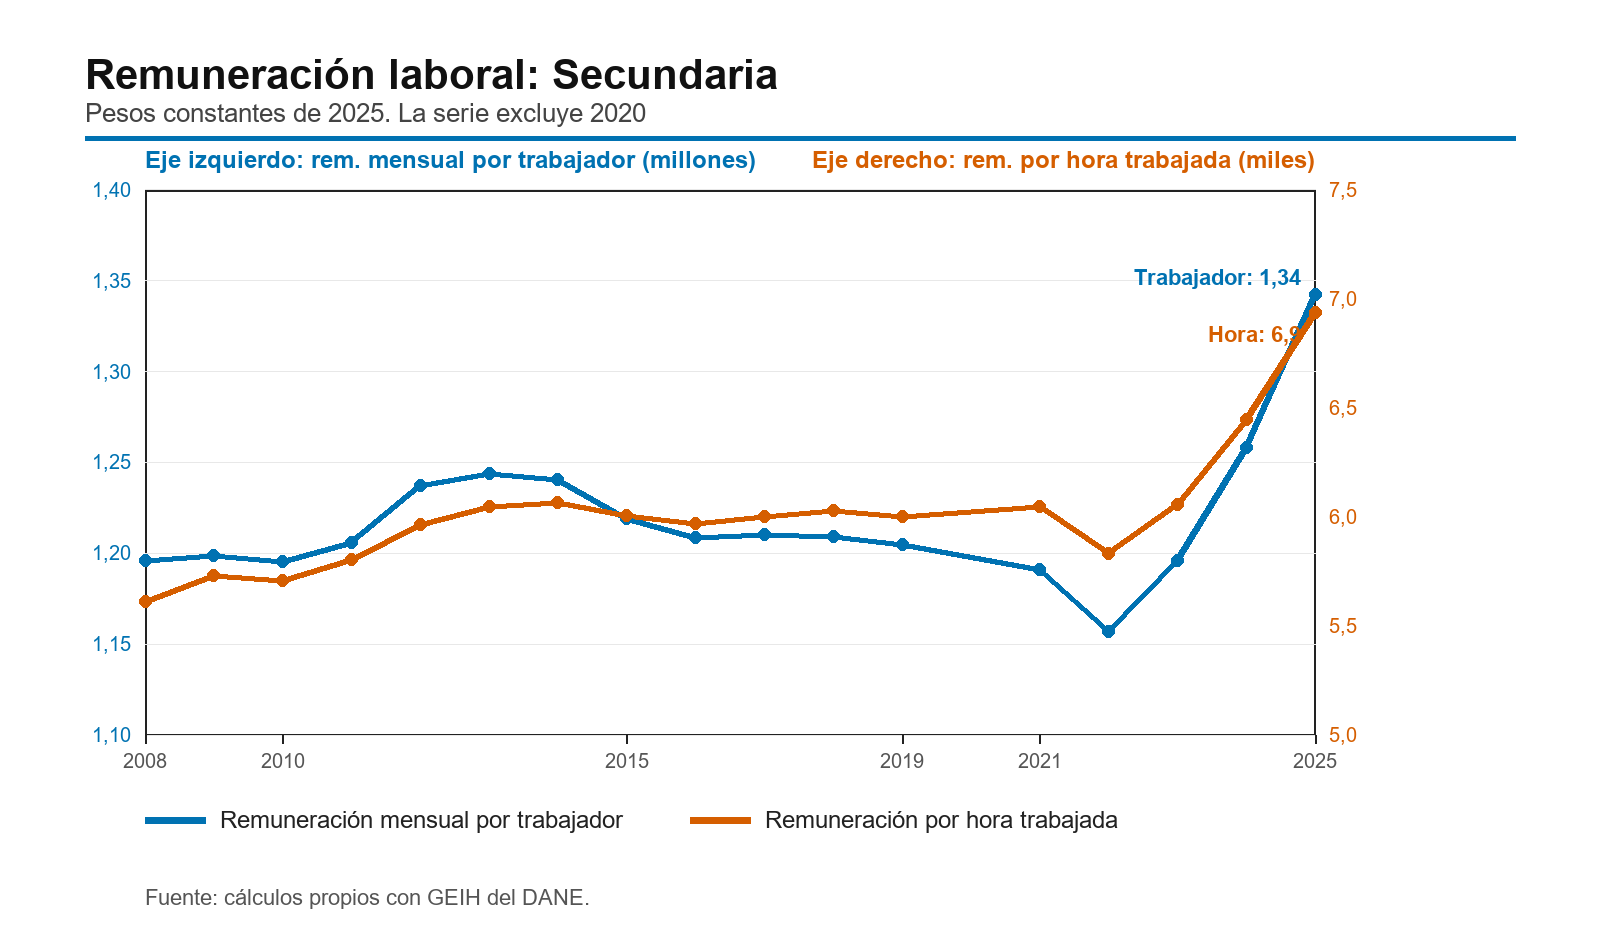
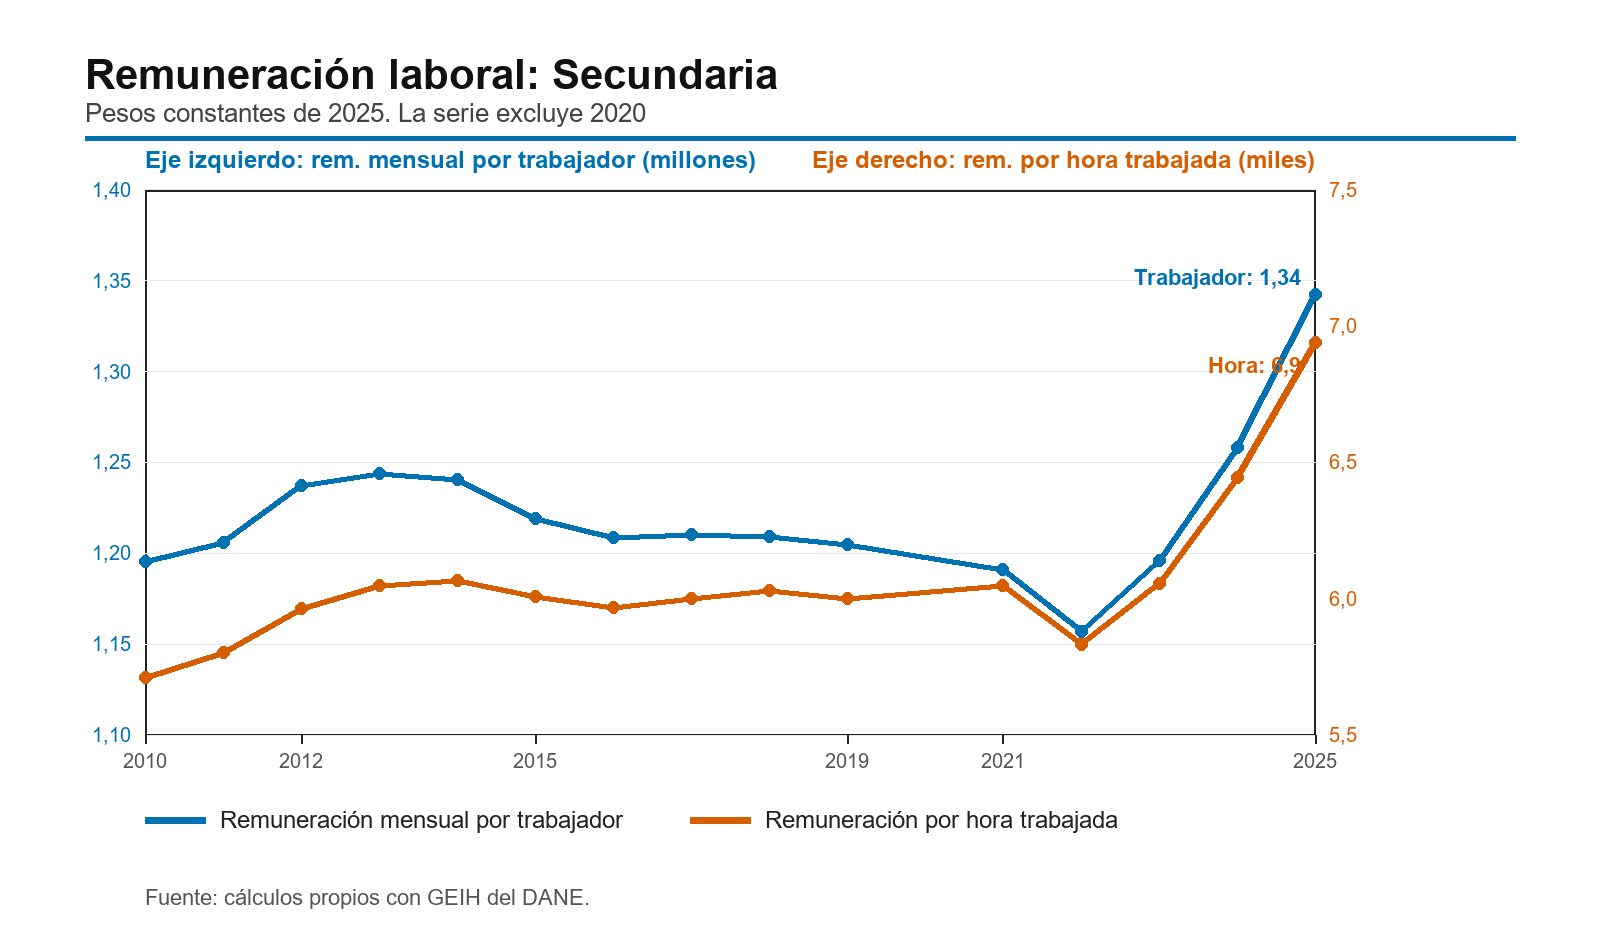
Rebase comparable analysis to 2010

diff --git a/Paper/sections/remuneracion_educacion_comparable_table.tex b/Paper/sections/remuneracion_educacion_comparable_table.tex
@@ -1,58 +1,58 @@
 \begin{table}[H]
 \centering
-\caption{Ocupación por nivel educativo comparable, 2008 y 2025}
+\caption{Ocupación por nivel educativo comparable, 2010 y 2025}
 \label{tab:remuneracion_educacion_comparable}
 \scriptsize
 \begin{tabular}{@{}p{3.7cm}rrrrrr@{}}
 \toprule
 Nivel educativo & \multicolumn{3}{c}{Ocupados} & \multicolumn{3}{c}{Participación en el empleo} \\
- & 2008 & 2025 & Crec. anual & 2008 & 2025 & Dif. \\
+ & 2010 & 2025 & Crec. anual & 2010 & 2025 & Dif. \\
  & \multicolumn{2}{c}{millones de personas} & \% & \multicolumn{2}{c}{\%} & p.p. \\
 \midrule
-Primaria o menos & 2,8 & 4,8 & 3,26\% & 36,0 & 21,0 & -15,0 \\
-Secundaria & 3,3 & 10,4 & 7,05\% & 42,1 & 45,3 & +3,2 \\
-Universitaria o superior & 1,7 & 7,7 & 9,34\% & 21,9 & 33,7 & +11,8 \\
+Primaria o menos & 6,1 & 4,8 & -1,51\% & 36,0 & 21,0 & -15,0 \\
+Secundaria & 6,9 & 10,4 & 2,74\% & 41,2 & 45,3 & +4,1 \\
+Universitaria o superior & 3,8 & 7,7 & 4,80\% & 22,8 & 33,7 & +10,9 \\
 \midrule
-\textbf{Total} & 7,7 & 22,9 & 6,60\% & 100,0 & 100,0 & 0,0 \\
+\textbf{Total} & 16,8 & 22,9 & 2,09\% & 100,0 & 100,0 & 0,0 \\
 \bottomrule
 \end{tabular}
-\caption*{\footnotesize Nota: ocupados en millones de personas. El crecimiento es anualizado para 2008--2025; la diferencia se expresa en puntos porcentuales. Por construcción, este cuadro cuenta ocupados con horas e ingreso laboral por hora válidos para el cálculo de remuneración. Como contraste, el total oficial de población ocupada del DANE fue 17,0 millones en 2008 y 23,8 millones en 2025, con crecimiento anual de 2,01\%. La submuestra usada aquí equivale al 45,6\% y 96,3\% de esos totales, respectivamente. Fuente: cálculos propios con GEIH del DANE y DANE, Anexos GEIH abril de 2026.}
+\caption*{\footnotesize Nota: ocupados en millones de personas. El crecimiento es anualizado para 2010--2025; la diferencia se expresa en puntos porcentuales. Por construcción, este cuadro cuenta ocupados con horas e ingreso laboral por hora válidos para el cálculo de remuneración. Como contraste, el total oficial de población ocupada del DANE fue 18,6 millones en 2010 y 23,8 millones en 2025, con crecimiento anual de 1,67\%. La submuestra usada aquí equivale al 90,5\% y 96,3\% de esos totales, respectivamente. Fuente: cálculos propios con GEIH del DANE y DANE, Anexos GEIH abril de 2026.}
 \end{table}
 
 \begin{table}[H]
 \centering
-\caption{Remuneración mensual por trabajador por nivel educativo comparable, 2008 y 2025}
+\caption{Remuneración mensual por trabajador por nivel educativo comparable, 2010 y 2025}
 \label{tab:remuneracion_educacion_trabajador}
 \scriptsize
 \begin{tabular}{@{}p{4.1cm}rrrrr@{}}
 \toprule
-Nivel educativo & 2008 & 2025 & Crec. anual & Brecha 2008 & Brecha 2025 \\
+Nivel educativo & 2010 & 2025 & Crec. anual & Brecha 2010 & Brecha 2025 \\
 \midrule
-Primaria o menos & 0,87 & 1,00 & 0,81\% & 1,00x & 1,00x \\
-Secundaria & 1,20 & 1,34 & 0,68\% & 1,38x & 1,35x \\
-Universitaria o superior & 3,03 & 3,23 & 0,38\% & 3,48x & 3,24x \\
+Primaria o menos & 0,88 & 1,00 & 0,85\% & 1,00x & 1,00x \\
+Secundaria & 1,20 & 1,34 & 0,78\% & 1,36x & 1,35x \\
+Universitaria o superior & 3,08 & 3,23 & 0,31\% & 3,51x & 3,24x \\
 \midrule
-\textbf{Total} & 1,48 & 1,91 & 1,50\% & 1,70x & 1,91x \\
+\textbf{Total} & 1,51 & 1,91 & 1,56\% & 1,72x & 1,91x \\
 \bottomrule
 \end{tabular}
-\caption*{\footnotesize Nota: la remuneración mensual corresponde a millones de pesos mensuales de 2025 por trabajador. Las brechas muestran la razón frente a la remuneración de primaria o menos en el mismo año. El crecimiento es anualizado para 2008--2025. La serie excluye 2020. Fuente: cálculos propios con GEIH del DANE.}
+\caption*{\footnotesize Nota: la remuneración mensual corresponde a millones de pesos mensuales de 2025 por trabajador. Las brechas muestran la razón frente a la remuneración de primaria o menos en el mismo año. El crecimiento es anualizado para 2010--2025. La serie excluye 2020. Fuente: cálculos propios con GEIH del DANE.}
 \end{table}
 
 \begin{table}[H]
 \centering
-\caption{Remuneración por hora trabajada por nivel educativo comparable, 2008 y 2025}
+\caption{Remuneración por hora trabajada por nivel educativo comparable, 2010 y 2025}
 \label{tab:remuneracion_educacion_hora}
 \scriptsize
 \begin{tabular}{@{}p{4.1cm}rrrrr@{}}
 \toprule
-Nivel educativo & 2008 & 2025 & Crec. anual & Brecha 2008 & Brecha 2025 \\
+Nivel educativo & 2010 & 2025 & Crec. anual & Brecha 2010 & Brecha 2025 \\
 \midrule
-Primaria o menos & 4,2 & 5,4 & 1,50\% & 1,00x & 1,00x \\
-Secundaria & 5,6 & 6,9 & 1,25\% & 1,33x & 1,28x \\
-Universitaria o superior & 15,5 & 17,2 & 0,60\% & 3,68x & 3,17x \\
+Primaria o menos & 4,3 & 5,4 & 1,48\% & 1,00x & 1,00x \\
+Secundaria & 5,7 & 6,9 & 1,31\% & 1,31x & 1,28x \\
+Universitaria o superior & 15,9 & 17,2 & 0,50\% & 3,66x & 3,17x \\
 \midrule
-\textbf{Total} & 7,2 & 10,1 & 2,02\% & 1,70x & 1,85x \\
+\textbf{Total} & 7,4 & 10,1 & 2,03\% & 1,71x & 1,85x \\
 \bottomrule
 \end{tabular}
-\caption*{\footnotesize Nota: la remuneración por hora corresponde a miles de pesos de 2025 por hora trabajada. Las brechas muestran la razón frente a la remuneración de primaria o menos en el mismo año. El crecimiento es anualizado para 2008--2025. La serie excluye 2020. Fuente: cálculos propios con GEIH del DANE.}
+\caption*{\footnotesize Nota: la remuneración por hora corresponde a miles de pesos de 2025 por hora trabajada. Las brechas muestran la razón frente a la remuneración de primaria o menos en el mismo año. El crecimiento es anualizado para 2010--2025. La serie excluye 2020. Fuente: cálculos propios con GEIH del DANE.}
 \end{table}

diff --git a/Paper/sections/CuerpoInformeRemuneracionEducacionGEIH.tex b/Paper/sections/CuerpoInformeRemuneracionEducacionGEIH.tex
@@ -2,11 +2,11 @@
 
 La educación es una de las dimensiones más persistentes de diferenciación en el mercado laboral. En Colombia, las brechas de remuneración entre trabajadores con baja escolaridad, secundaria y educación superior no solo reflejan diferencias en años de formación. También condensan diferencias en acceso a empleos formales, sectores productivos, ocupaciones, tamaño de empresa y trayectorias laborales. Por eso, después de estudiar la remuneración agregada y la formalidad, conviene aislar la pregunta educativa.
 
-Este informe analiza la remuneración laboral por nivel educativo entre 2008 y 2025, usando los microdatos armonizados de la GEIH del proyecto. La primera parte construye una clasificación comparable para todo el periodo: primaria o menos, secundaria y universitaria o superior. La segunda parte aprovecha el cambio de pregunta educativa desde 2021, cuando la base permite separar categorías como media académica, media técnica, técnica profesional, tecnológica, universitaria y posgrados.
+Este informe analiza la remuneración laboral por nivel educativo entre 2010 y 2025, usando los microdatos armonizados de la GEIH del proyecto. La primera parte construye una clasificación comparable para todo el periodo: primaria o menos, secundaria y universitaria o superior. La segunda parte aprovecha el cambio de pregunta educativa desde 2021, cuando la base permite separar categorías como media académica, media técnica, técnica profesional, tecnológica, universitaria y posgrados.
 
 \section{Metodología}
 
-\textbf{El periodo de análisis es 2008--2025 y se excluye 2020.} La exclusión mantiene la consistencia con los informes anteriores del Centro, dado que el choque de la pandemia y los cambios operativos de la encuesta hacen que ese año sea difícil de comparar con el resto de la serie. Todos los ingresos se expresan en pesos constantes de 2025.
+\textbf{El periodo de análisis comparable es 2010--2025 y se excluye 2020.} El año inicial se fija en 2010 porque la serie armonizada de ocupados con remuneración observable muestra un subregistro importante en 2008. La exclusión de 2020 mantiene la consistencia con los informes anteriores del Centro, dado que el choque de la pandemia y los cambios operativos de la encuesta hacen que ese año sea difícil de comparar con el resto de la serie. Todos los ingresos se expresan en pesos constantes de 2025.
 
 \textbf{La remuneración por trabajador se calcula como una remuneración mensual equivalente.} Para cada ocupado se toma el ingreso laboral real por hora, se multiplica por las horas semanales trabajadas y por 52/12. Luego se expande con los factores de la GEIH. La remuneración por hora se calcula como la remuneración laboral total dividida por las horas trabajadas totales de cada grupo. Como estos cálculos requieren horas e ingreso laboral por hora válidos, los conteos de ocupados de los cuadros de remuneración corresponden a esa submuestra y no al total oficial de ocupados.
 
@@ -18,38 +18,38 @@ Este informe analiza la remuneración laboral por nivel educativo entre 2008 y 2
 
 \input{Paper/sections/remuneracion_educacion_comparable_table}
 
-\textbf{El total de ocupados del cuadro debe leerse como población con remuneración observable.} El contraste con las cifras oficiales del DANE muestra la diferencia: el DANE reporta 17,0 millones de ocupados promedio en 2008 y 23,8 millones en 2025, con crecimiento anual de 2,01\%. En cambio, la submuestra usada para calcular remuneraciones suma 7,7 y 22,9 millones, equivalente al 45,6\% y 96,3\% del total oficial, respectivamente. La brecha de 2008 sugiere que en los primeros años la variable armonizada de ingreso laboral por hora deja por fuera a muchos ocupados; por eso, las participaciones educativas deben interpretarse como composición de la población con remuneración válida.
+\textbf{El total de ocupados del cuadro debe leerse como población con remuneración observable.} El contraste con las cifras oficiales del DANE muestra la diferencia: el DANE reporta 18,6 millones de ocupados promedio en 2010 y 23,8 millones en 2025, con crecimiento anual de 1,67\%. En cambio, la submuestra usada para calcular remuneraciones suma 16,8 y 22,9 millones, equivalente al 90,5\% y 96,3\% del total oficial, respectivamente. Esta cobertura es suficientemente estable para interpretar las participaciones como composición de la población con remuneración válida.
 
-\textbf{La educación superior mantiene la remuneración más alta, pero su ventaja relativa se redujo.} En 2025, los trabajadores con educación universitaria o superior recibieron 17,2 miles de pesos de 2025 por hora trabajada, frente a 6,9 miles entre quienes tenían secundaria y 5,4 miles entre quienes tenían primaria o menos. La brecha frente a primaria o menos fue de 3,17 veces en 2025, menor que las 3,68 veces observadas en 2008.
+\textbf{La educación superior mantiene la remuneración más alta, pero su ventaja relativa se redujo.} En 2025, los trabajadores con educación universitaria o superior recibieron 17,2 miles de pesos de 2025 por hora trabajada, frente a 6,9 miles entre quienes tenían secundaria y 5,4 miles entre quienes tenían primaria o menos. La brecha frente a primaria o menos fue de 3,17 veces en 2025, menor que las 3,66 veces observadas en 2010.
 
-\textbf{La composición educativa del empleo cambió de manera importante.} La participación de trabajadores con educación universitaria o superior pasó de 21,9\% en 2008 a 33,7\% en 2025. En contraste, primaria o menos redujo su peso de 36,0\% a 21,0\%. Esta recomposición es relevante porque una parte de la mejora agregada de la remuneración laboral proviene de que el empleo se desplazó hacia niveles educativos con mayor remuneración promedio.
+\textbf{La composición educativa del empleo cambió de manera importante.} La participación de trabajadores con educación universitaria o superior pasó de 22,8\% en 2010 a 33,7\% en 2025. En contraste, primaria o menos redujo su peso de 36,0\% a 21,0\%. Esta recomposición es relevante porque una parte de la mejora agregada de la remuneración laboral proviene de que el empleo se desplazó hacia niveles educativos con mayor remuneración promedio.
 
-\textbf{Primaria o menos: la mejora fue más visible por hora que por trabajador.} La remuneración mensual por trabajador pasó de 0,87 a 1,00 millones de pesos mensuales de 2025, con crecimiento anual de 0,81\%. La remuneración por hora pasó de 4,2 a 5,4 miles de pesos de 2025, con crecimiento anual de 1,50\%.
+\textbf{Primaria o menos: la mejora fue más visible por hora que por trabajador.} La remuneración mensual por trabajador pasó de 0,88 a 1,00 millones de pesos mensuales de 2025, con crecimiento anual de 0,85\%. La remuneración por hora pasó de 4,3 a 5,4 miles de pesos de 2025, con crecimiento anual de 1,48\%.
 
 \begin{figure}[H]
   \centering
   \includegraphics[width=0.96\textwidth]{Paper/figures/fig_remuneracion_educacion_primaria_o_menos_series.png}
-  \caption{Evolución de la remuneración laboral para Primaria o menos, 2008--2025}
+  \caption{Evolución de la remuneración laboral para Primaria o menos, 2010--2025}
   \label{fig:remuneracion_educacion_primaria_o_menos_series}
   \caption*{\footnotesize Nota: el eje izquierdo muestra la remuneración mensual por trabajador en millones de pesos mensuales de 2025; el eje derecho muestra la remuneración por hora trabajada en miles de pesos de 2025. La serie excluye 2020. Fuente: cálculos propios con GEIH del DANE.}
 \end{figure}
 
-\textbf{Secundaria: ambas remuneraciones crecieron, con mayor dinamismo por hora.} La remuneración mensual por trabajador pasó de 1,20 a 1,34 millones de pesos mensuales de 2025, con crecimiento anual de 0,68\%. La remuneración por hora pasó de 5,6 a 6,9 miles de pesos de 2025, con crecimiento anual de 1,25\%.
+\textbf{Secundaria: ambas remuneraciones crecieron, con mayor dinamismo por hora.} La remuneración mensual por trabajador pasó de 1,20 a 1,34 millones de pesos mensuales de 2025, con crecimiento anual de 0,78\%. La remuneración por hora pasó de 5,7 a 6,9 miles de pesos de 2025, con crecimiento anual de 1,31\%.
 
 \begin{figure}[H]
   \centering
   \includegraphics[width=0.96\textwidth]{Paper/figures/fig_remuneracion_educacion_secundaria_series.png}
-  \caption{Evolución de la remuneración laboral para Secundaria, 2008--2025}
+  \caption{Evolución de la remuneración laboral para Secundaria, 2010--2025}
   \label{fig:remuneracion_educacion_secundaria_series}
   \caption*{\footnotesize Nota: el eje izquierdo muestra la remuneración mensual por trabajador en millones de pesos mensuales de 2025; el eje derecho muestra la remuneración por hora trabajada en miles de pesos de 2025. La serie excluye 2020. Fuente: cálculos propios con GEIH del DANE.}
 \end{figure}
 
-\textbf{Universitaria o superior: los niveles siguen siendo más altos, pero el crecimiento fue más moderado.} La remuneración mensual por trabajador pasó de 3,03 a 3,23 millones de pesos mensuales de 2025, con crecimiento anual de 0,38\%. La remuneración por hora pasó de 15,5 a 17,2 miles de pesos de 2025, con crecimiento anual de 0,60\%.
+\textbf{Universitaria o superior: los niveles siguen siendo más altos, pero el crecimiento fue más moderado.} La remuneración mensual por trabajador pasó de 3,08 a 3,23 millones de pesos mensuales de 2025, con crecimiento anual de 0,31\%. La remuneración por hora pasó de 15,9 a 17,2 miles de pesos de 2025, con crecimiento anual de 0,50\%.
 
 \begin{figure}[H]
   \centering
   \includegraphics[width=0.96\textwidth]{Paper/figures/fig_remuneracion_educacion_superior_series.png}
-  \caption{Evolución de la remuneración laboral para Universitaria o superior, 2008--2025}
+  \caption{Evolución de la remuneración laboral para Universitaria o superior, 2010--2025}
   \label{fig:remuneracion_educacion_superior_series}
   \caption*{\footnotesize Nota: el eje izquierdo muestra la remuneración mensual por trabajador en millones de pesos mensuales de 2025; el eje derecho muestra la remuneración por hora trabajada en miles de pesos de 2025. La serie excluye 2020. Fuente: cálculos propios con GEIH del DANE.}
 \end{figure}
@@ -84,7 +84,7 @@ Este informe analiza la remuneración laboral por nivel educativo entre 2008 y 2
 
 \textbf{La educación sigue ordenando fuertemente la remuneración laboral en Colombia.} Los trabajadores con educación universitaria o superior reciben más por hora y por trabajador que quienes tienen secundaria o primaria o menos. Sin embargo, la brecha relativa frente a la base educativa se redujo durante el periodo, principalmente porque la remuneración por hora de los grupos con menor educación creció más rápido.
 
-\textbf{La recomposición educativa del empleo con remuneración observable es parte de la historia agregada.} Entre 2008 y 2025 aumentó el peso de los ocupados con educación superior y cayó el de trabajadores con primaria o menos dentro de la submuestra con ingreso y horas válidos. Esa transformación eleva la remuneración promedio observada, pero también plantea una pregunta de política: cómo sostener mejoras de remuneración para quienes no acceden a educación superior.
+\textbf{La recomposición educativa del empleo con remuneración observable es parte de la historia agregada.} Entre 2010 y 2025 aumentó el peso de los ocupados con educación superior y cayó el de trabajadores con primaria o menos dentro de la submuestra con ingreso y horas válidos. Esa transformación eleva la remuneración promedio observada, pero también plantea una pregunta de política: cómo sostener mejoras de remuneración para quienes no acceden a educación superior.
 
 \textbf{La apertura de la pregunta educativa permite mirar mejor la heterogeneidad reciente.} Desde 2021, las categorías detalladas muestran diferencias importantes entre técnica profesional, tecnológica, universitaria y posgrados, así como entre media académica y media técnica. Esa información debería usarse en informes posteriores para conectar credenciales educativas, ocupaciones, sectores y formalidad.
 

diff --git a/main.tex b/main.tex
@@ -50,7 +50,7 @@
 \newcommand{\reportseries}{Informes sobre la Productividad en Colombia}
 \newcommand{\reportseriesdesc}{Evidencia para entender y fomentar la productividad}
 \newcommand{\reportnumber}{Informe 0X}
-\newcommand{\reporttitle}{Remuneración Laboral por Nivel Educativo en Colombia 2008--2025}
+\newcommand{\reporttitle}{Remuneración Laboral por Nivel Educativo en Colombia 2010--2025}
 \newcommand{\reportsubtitle}{Una lectura a partir de la GEIH}
 \newcommand{\reportauthorone}{Oliver Pardo}
 \newcommand{\reportauthoroneaffil}{Profesor asociado del Departamento de Administración, Pontificia Universidad Javeriana y Director del Centro Javeriano de Competitividad}
@@ -113,13 +113,13 @@
 ]
 \section*{Resumen ejecutivo}
 \addcontentsline{toc}{section}{Resumen ejecutivo}
-\textbf{Este informe analiza la evolución de la remuneración laboral por nivel educativo en Colombia entre 2008 y 2025.} El ejercicio usa los microdatos armonizados de la GEIH y clasifica a la población ocupada en tres grupos comparables a lo largo de todo el periodo: primaria o menos, secundaria y universitaria o superior.
+\textbf{Este informe analiza la evolución de la remuneración laboral por nivel educativo en Colombia entre 2010 y 2025.} El ejercicio usa los microdatos armonizados de la GEIH y clasifica a la población ocupada en tres grupos comparables a lo largo de todo el periodo: primaria o menos, secundaria y universitaria o superior.
 
 \textbf{La educación superior mantiene una ventaja clara en niveles de remuneración.} En 2025, la remuneración por hora de trabajadores con educación universitaria o superior fue de 17,2 miles de pesos de 2025, frente a 6,9 miles en secundaria y 5,4 miles en primaria o menos.
 
-\textbf{La brecha relativa se redujo, aunque no desapareció.} En 2008, la remuneración por hora de trabajadores con educación universitaria o superior era 3,68 veces la de trabajadores con primaria o menos; en 2025 fue 3,17 veces. La convergencia relativa ocurrió porque la remuneración por hora de primaria o menos creció más rápido que la de educación superior.
+\textbf{La brecha relativa se redujo, aunque no desapareció.} En 2010, la remuneración por hora de trabajadores con educación universitaria o superior era 3,66 veces la de trabajadores con primaria o menos; en 2025 fue 3,17 veces. La convergencia relativa ocurrió porque la remuneración por hora de primaria o menos creció más rápido que la de educación superior.
 
-\textbf{La fuerza laboral se volvió más educada.} La participación de trabajadores con educación universitaria o superior aumentó de 21,9\% a 33,7\%, mientras primaria o menos cayó de 36,0\% a 21,0\%. Este cambio de composición ayuda a explicar parte de la mejora agregada de las remuneraciones.
+\textbf{La fuerza laboral se volvió más educada.} La participación de trabajadores con educación universitaria o superior aumentó de 22,8\% a 33,7\%, mientras primaria o menos cayó de 36,0\% a 21,0\%. Este cambio de composición ayuda a explicar parte de la mejora agregada de las remuneraciones.
 
 \textbf{Desde 2021, la pregunta educativa permite mirar diferencias internas.} La sección final separa media académica y técnica, normalista, técnica profesional, tecnológica, universitaria, especialización, maestría y doctorado. Esa apertura muestra que la categoría de educación superior es heterogénea y que los posgrados ocupan la parte alta de la distribución de remuneración por hora.
 \end{mdframed}